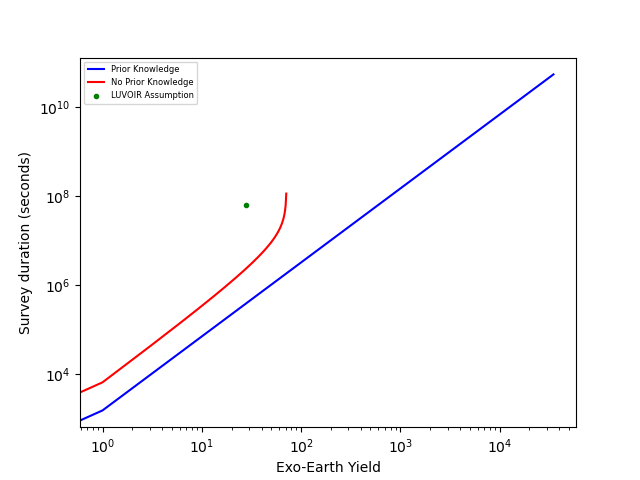
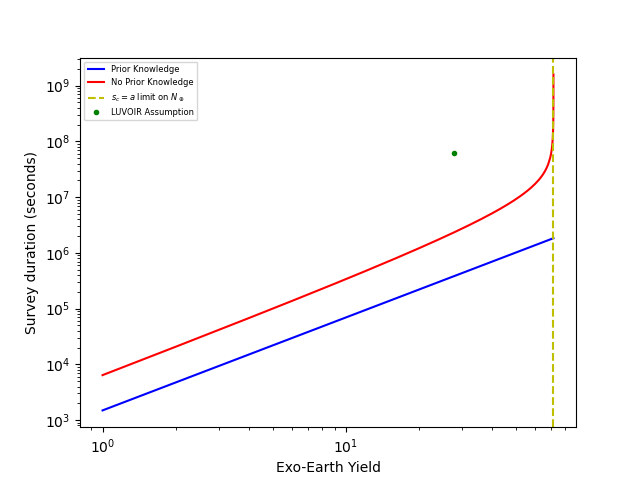
Enhanced two graphs, and made four more.

diff --git a/dgraphs.py b/dgraphs.py
@@ -28,8 +28,9 @@ Generate a graph that compares two variables for a given mission concept.
                           3 -> d         vs duration
                           4 -> eta_oplus vs N_oplus  (Not Implemented)
                           5 -> IWA       vs N_oplus
-                          6 -> SNR0      vs N_oplus  (Not Implemented)
+                          6 -> SNR0      vs N_oplus
                           7 -> N_oplus   vs duration
+                          8 -> eta_oplus vs duration
 
 If an invalid value is supplied for STUDY, it will
 default to habex.
@@ -62,7 +63,7 @@ if len(sys.argv) > 1:
         exit(1)
 
 
-NOPLUSvD, ETAvD, DvNOPLUS, DvTIME, NOPLUSvT, IWAvNOPLUS, NOPLUSvT = [False]*7
+NOPLUSvD, ETAvD, DvNOPLUS, DvTIME, ETAvNOPLUS, IWAvNOPLUS, SNR0vNOPLUS, NOPLUSvT, ETAvT = [False]*9
 if len(sys.argv) > 2:
     if '0' == sys.argv[2]:
         NOPLUSvD=True
@@ -73,11 +74,15 @@ if len(sys.argv) > 2:
     elif '3' == sys.argv[2]:
         DvTIME=True
     elif '4' == sys.argv[2]:
-        NOPLUSvT=True
+        ETAvNOPLUS=True
     elif '5' == sys.argv[2]:
         IWAvNOPLUS=True
+    elif '6' == sys.argv[2]:
+        SNR0vNOPLUS=True
     elif '7' == sys.argv[2]:
         NOPLUSvT = True
+    elif '8' == sys.argv[2]:
+        ETAvT = True
     else:
         print_help()
         #exit(1)
@@ -196,6 +201,35 @@ def T_photon_prior(Noplusa, la, avara, rhostara, etaeartha, snr0a, Ra, Ka, epsa,
     return m(front,m(middle,end))
 
 T_iwa_prior=T_photon_prior
+
+def get_sc(Noplusa, la, avara, rhostara, etaeartha, snr0a, Ra, Ka, epsa, da, iwafaca, rvala):
+    Dlim = np.cbrt(d(m(3,Noplusa),m(4*pi,m(rhostara, etaeartha))))
+    d(m(3,m(Dlim,la)),da)
+
+def get_Noplus_sca(Noplusa, la, avara, rhostara, etaeartha, snr0a, Ra, Ka, epsa, da, iwafaca, rvala):
+    cubed = np.power(d(m(avara,da),m(3,la)),3)
+    modifier = m(4*pi/3,m(rhostara,etaeartha))
+    return m(cubed, modifier)
+
+def get_etaearth_sca(Noplusa, la, avara, rhostara, etaeartha, snr0a, Ra, Ka, epsa, da, iwafaca, rvala):
+    cubed = np.power(d(m(3,la),m(avara,da)),3)
+    modifier = d(m(3,Noplusa),m(4*pi,rhostara))
+    return m(cubed, modifier)
+
+def SNR_photon_noprior(Noplusa, la, avara, rhostara, etaeartha, da, Ra, Ka, epsa, Ta, iwafaca, rvala):
+    Dlim = np.cbrt(d(m(3,Noplusa),m(4*pi,m(rhostara, etaeartha))))
+    nvar = d(m(3,la),avara)
+    sq = s(1,np.power(d(m(Dlim,nvar),da),2))
+    extramult=d(m(5,m(m(Ta,Ra),m(Ka,epsa))),m(48,r))
+    fivethirds = np.power(d(etaeartha,Noplusa),5/3)
+    twothirds = np.power(d(m(4*pi,rhostara),3),2/3)
+    return np.sqrt(m(m(sq, extramult),m(fivethirds, twothirds)))
+
+def SNR_photon_prior(Noplusa, la, avara, rhostara, etaeartha, da, Ra, Ka, epsa, Ta, iwafaca, rvala):
+    top=m(m(5,Ta),m(m(Ra,Ka),m(np.power(da,2),epsa)))
+    bottom=m(48,m(r,np.power(Noplusa,5/3)))
+    twothirds = np.power(d(m(4*pi,m(rhostara,etaeartha)),3),2/3)
+    return m(d(top, bottom),twothirds)
 
 #WRONG!
 #def T_iwa_prior(Noplusa, la, avara, rhostara, etaeartha, snr0a, Ra, Ka, epsa, da, iwafaca, rvala):
@@ -322,27 +356,68 @@ if IWAvNOPLUS:
 
 if NOPLUSvT:
     titlestr = ' Yield vs. Survey Duration, for $\eta_\oplus='+str(float(etaearth))+'$.'
+    noplus_limit = get_Noplus_sca([], l, avar, rhostar, etaearth, snr0, R, K, eps, dvar, iwafac, rval)
+    noplusvals = list(range(1,int(noplus_limit)-2))
+    #Aggressively sample near the asymptote, to give it better clarity.
+    nearval = np.linspace(int(noplus_limit)-2, noplus_limit, 1000)[0:999]
+    noplusvals = np.concatenate((noplusvals, nearval))
+    tvals_p = T_photon_prior(noplusvals, l, avar, rhostar, etaearth, snr0, R, K, eps, dvar, iwafac, rval)
+    tvals_np = T_photon_noprior(noplusvals, l, avar, rhostar, etaearth, snr0, R, K, eps, dvar, iwafac, rval)
     #noplusvals = list(range(1,1001))
-    noplus_intersect = intersection_prior([], l, avar, rhostar, etaearth, snr0, R, K, eps, T, iwafac, rval)
-    NoplusVals = np.concatenate((np.array(range(int(noplus_intersect+1))),
-                                 np.array([noplus_intersect]),
-                                 np.array(range(int(noplus_intersect+1), int(8*noplus_intersect)))))
-    tvals_p_pho = T_photon_prior(np.array(range(int(noplus_intersect+1))), l, avar, rhostar,
-                                 etaearth, snr0, R, K, eps, dvar, iwafac, rval)
-    tvals_p_iwa = T_iwa_prior(np.array(range(int(noplus_intersect+1), int(8*noplus_intersect))),
-                              l, avar, rhostar, etaearth, snr0, R, K, eps, dvar, iwafac, rval)
-    tvals_np = T_photon_noprior(NoplusVals, l, avar, rhostar, etaearth, snr0, R, K, eps, dvar, iwafac, rval)
-    noplusvals = np.concatenate((np.array(range(int(noplus_intersect+1))),
-                                 np.array(range(int(noplus_intersect+1), int(8*noplus_intersect)))))
-    tvals_p = np.concatenate((tvals_p_pho,tvals_p_iwa))
+    #noplus_intersect = intersection_prior([], l, avar, rhostar, etaearth, snr0, R, K, eps, T, iwafac, rval)
+    #NoplusVals = np.concatenate((np.array(range(int(noplus_intersect+1))),
+    #                             np.array([noplus_intersect]),
+    #                             np.array(range(int(noplus_intersect+1), int(8*noplus_intersect)))))
+    #tvals_p_pho = T_photon_prior(np.array(range(int(noplus_intersect+1))), l, avar, rhostar,
+    #                             etaearth, snr0, R, K, eps, dvar, iwafac, rval)
+    #tvals_p_iwa = T_iwa_prior(np.array(range(int(noplus_intersect+1), int(8*noplus_intersect))),
+    #                          l, avar, rhostar, etaearth, snr0, R, K, eps, dvar, iwafac, rval)
+    #tvals_np = T_photon_noprior(NoplusVals, l, avar, rhostar, etaearth, snr0, R, K, eps, dvar, iwafac, rval)
+    #noplusvals = np.concatenate((np.array(range(int(noplus_intersect+1))),
+    #                             np.array(range(int(noplus_intersect+1), int(8*noplus_intersect)))))
+    #tvals_p = np.concatenate((tvals_p_pho,tvals_p_iwa))
     ax = plt.figure()
     plt.loglog(noplusvals,tvals_p, color='b', label='Prior Knowledge')
-    plt.loglog( NoplusVals, tvals_np, color='r', label='No Prior Knowledge')
+    plt.loglog(noplusvals, tvals_np, color='r', label='No Prior Knowledge')
+    plt.axvline(x=noplus_limit, color='y', linestyle='--',label='$s_c=a$ limit on $N_\oplus$')
     plt.plot(Noplus,T, 'go', label=HABEX*'HabEx' + (LUVOIR or LUVOIRALT)*'LUVOIR'+' Assumption', markersize=3)
     plt.ylabel('Survey duration (seconds)'); plt.xlabel('Exo-Earth Yield')
     plt.title(TITLES*(HABEX*'HabEx' + (LUVOIR or LUVOIRALT)*'LUVOIR' + titlestr))
     plt.legend(prop={'size':6}); plt.show()
 
+if ETAvT:
+    titlestr = ' Yield vs. $\eta_\oplus$'
+    minetaval = get_etaearth_sca(Noplus, l, avar, rhostar, [], snr0, R, K, eps, dvar, iwafac, rval)
+    etavals = np.linspace(minetaval,1,1000)[1:999]
+    tvals_p = T_photon_prior(Noplus, l, avar, rhostar, etavals, snr0, R, K, eps, dvar, iwafac, rval)
+    tvals_np = T_photon_noprior(Noplus, l, avar, rhostar, etavals, snr0, R, K, eps, dvar, iwafac, rval)
+    ax = plt.figure()
+    plt.xlim([0,1])
+    plt.semilogy(etavals,tvals_p, color='b', label='Prior Knowledge')
+    plt.semilogy(etavals, tvals_np, color='r', label='No Prior Knowledge')
+    plt.axvline(x=minetaval, color='y', linestyle='--',label='$s_c=a$ limit on $\eta_\oplus$')
+    plt.plot(etaearth,T, 'go', label=HABEX*'HabEx' + (LUVOIR or LUVOIRALT)*'LUVOIR'+' Assumption', markersize=3)
+    plt.ylabel('Survey duration (seconds)'); plt.xlabel('$\eta_\oplus$')
+    plt.title(TITLES*(HABEX*'HabEx' + (LUVOIR or LUVOIRALT)*'LUVOIR' + titlestr))
+    plt.legend(prop={'size':6}); plt.show()
+
+if SNR0vNOPLUS:
+    titlestr = ' $SNR_0$ vs $N_\oplus$'
+    noplus_limit = get_Noplus_sca([], l, avar, rhostar, etaearth, snr0, R, K, eps, dvar, iwafac, rval)
+    noplusvals = list(range(1,int(noplus_limit)-2))
+    #Aggressively sample near the asymptote, to give it better clarity.
+    nearval = np.linspace(int(noplus_limit)-2, noplus_limit, 1000)[0:999]
+    noplusvals = np.concatenate((noplusvals, nearval))
+    snrvals_p = SNR_photon_prior(noplusvals, l, avar, rhostar, etaearth, dvar, R, K, eps, T, iwafac, rval)
+    snrvals_np = SNR_photon_noprior(noplusvals, l, avar, rhostar, etaearth, dvar, R, K, eps, T, iwafac, rval)
+    ax = plt.figure()
+    plt.semilogy(noplusvals, snrvals_p, color='b', label='Prior Knowledge')
+    plt.semilogy(noplusvals, snrvals_np, color='r', label='No Prior Knowledge')
+    plt.plot(Noplus,snr0, 'go', label=HABEX*'HabEx' + (LUVOIR or LUVOIRALT)*'LUVOIR'+' Assumption', markersize=3)
+    plt.ylabel('$SNR_0$'); plt.xlabel('Exo-Earth Yield')
+    plt.title(TITLES*(HABEX*'HabEx' + (LUVOIR or LUVOIRALT)*'LUVOIR' + titlestr))
+    plt.legend(prop={'size':6}); plt.show()
+    
 
 # Sources: HabEx
 # l:              (HabEx Final Report 3-6) (Standards Team Final Report Table 5)
